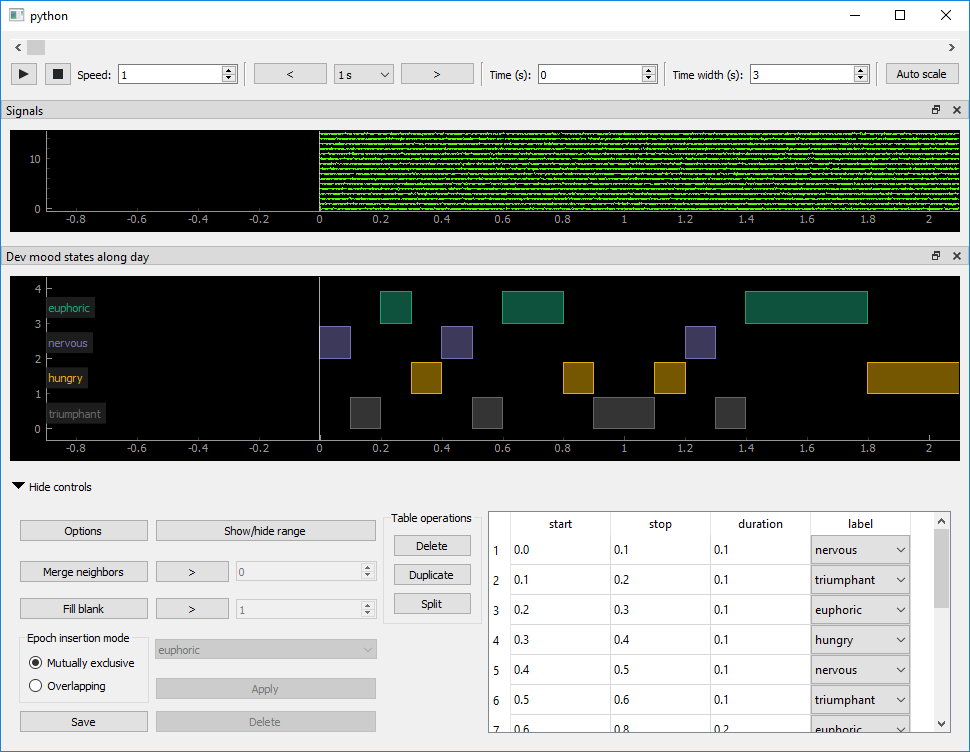
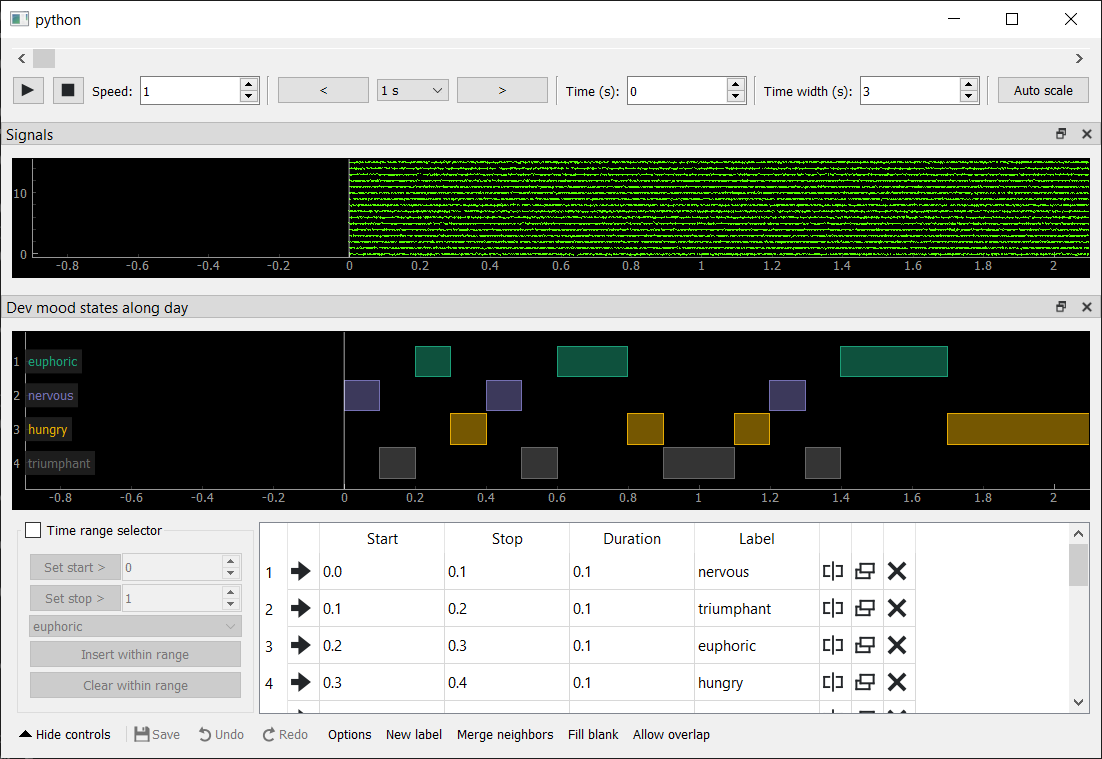
Update docs for recent epoch encoder improvements
Closes #109

diff --git a/examples/epoch_encoder.py b/examples/epoch_encoder.py
@@ -54,4 +54,4 @@ app.exec_()
 
 
 # press '1', '2', '3', '4' to encode state.
-# or press 'show/hide range' and 'apply'
+# or toggle 'Time range selector' and then use 'Insert within range'

diff --git a/doc/interface.rst b/doc/interface.rst
@@ -16,9 +16,9 @@ Time is easy and intuitive to navigate:
 * Pressing the play button will scroll through data and video in real time, or
   at a higher or lower rate if the speed parameter is changed.
 * The arrow/WASD keys allow you to step through time in variable increments.
-* Dragging the horizontal slider moves through time quickly.
-* Jump to a time by clicking on an event in the event list or a table entry in
-  the epoch encoder.
+* Dragging the horizontal slider along the top moves through time quickly.
+* Jump to a time by clicking on an event in the event list or on an arrow
+  button in the epoch encoder's data table.
 
 It is also easy to quickly adjust scale and placement:
 
@@ -37,27 +37,32 @@ It is also easy to quickly adjust scale and placement:
 
 The epoch encoder has many modes of interaction as well:
 
-* Click "Show/hide range" (shortcut: ``r``) to toggle the display of a time
-  range selector, which can be positioned with the mouse or by using dedicated
-  buttons (labeled ">"; shortcuts: ``[`` and ``]``).
+* Click "Time range selector" (shortcut: ``r``) to toggle the display of a
+  rectangle which can be positioned with the mouse or by using dedicated
+  buttons ("Set start >" and "Set stop >"; shortcuts: ``[`` and ``]``).
 * Customizable key bindings (default: number keys) allow you to fill the
   selected time range with an epoch if the selector is enabled, or to place new
   epochs of a fixed (and adjustable) duration at the current time if it is
-  disabled.
+  disabled. Key bindings are displayed to the left of each epoch label.
 * Click on an epoch to select the corresponding entry in the epoch encoder's
-  data table, where you can change the label associated with it.
-* Click on a row in the data table to jump to the start of that epoch.
+  data table, where you can change the times or label associated with it.
+* Buttons in each row of the data table allow you to jump to, split, duplicate,
+  or delete the epoch.
 * Double-click on an existing epoch to enable the time range selector and
   position it on that epoch.
-* Toggle between epoch insertion modes using the radio buttons or modifying
-  shortcut key presses with the Shift key:
+* Toggle between epoch insertion modes using the "Allow overlap" button or by
+  modifying shortcut key presses with the Shift key:
 
-    * Mutually exclusive mode: Placing an epoch where there is already one will
+    * "Allow overlaps" disabled: Placing an epoch where there is already one will
       delete the overlapping portion of the old epoch.
-    * Overlapping mode: Epochs are permitted to overlap.
+    * "Allow overlaps" enabled: Epochs are permitted to overlap.
 
+* Create new possible epoch labels with the "New label" button.
 * Merge overlapping and adjacent epochs of the same type with the "Merge
   neighbors" button.
 * Fill gaps between epochs using the "Fill blank" button.
 * Click "Save" (shortcut: ``Ctrl+s``, or ``Cmd+s`` on Mac) to write the epochs
   to a file.
+* Click "Undo"/"Redo" (shortcuts: ``Ctrl+z``/``Ctrl+y``, or ``Cmd+z``/``Cmd+y``
+  on Mac) to move through the history of recent changes made during the current
+  session.
